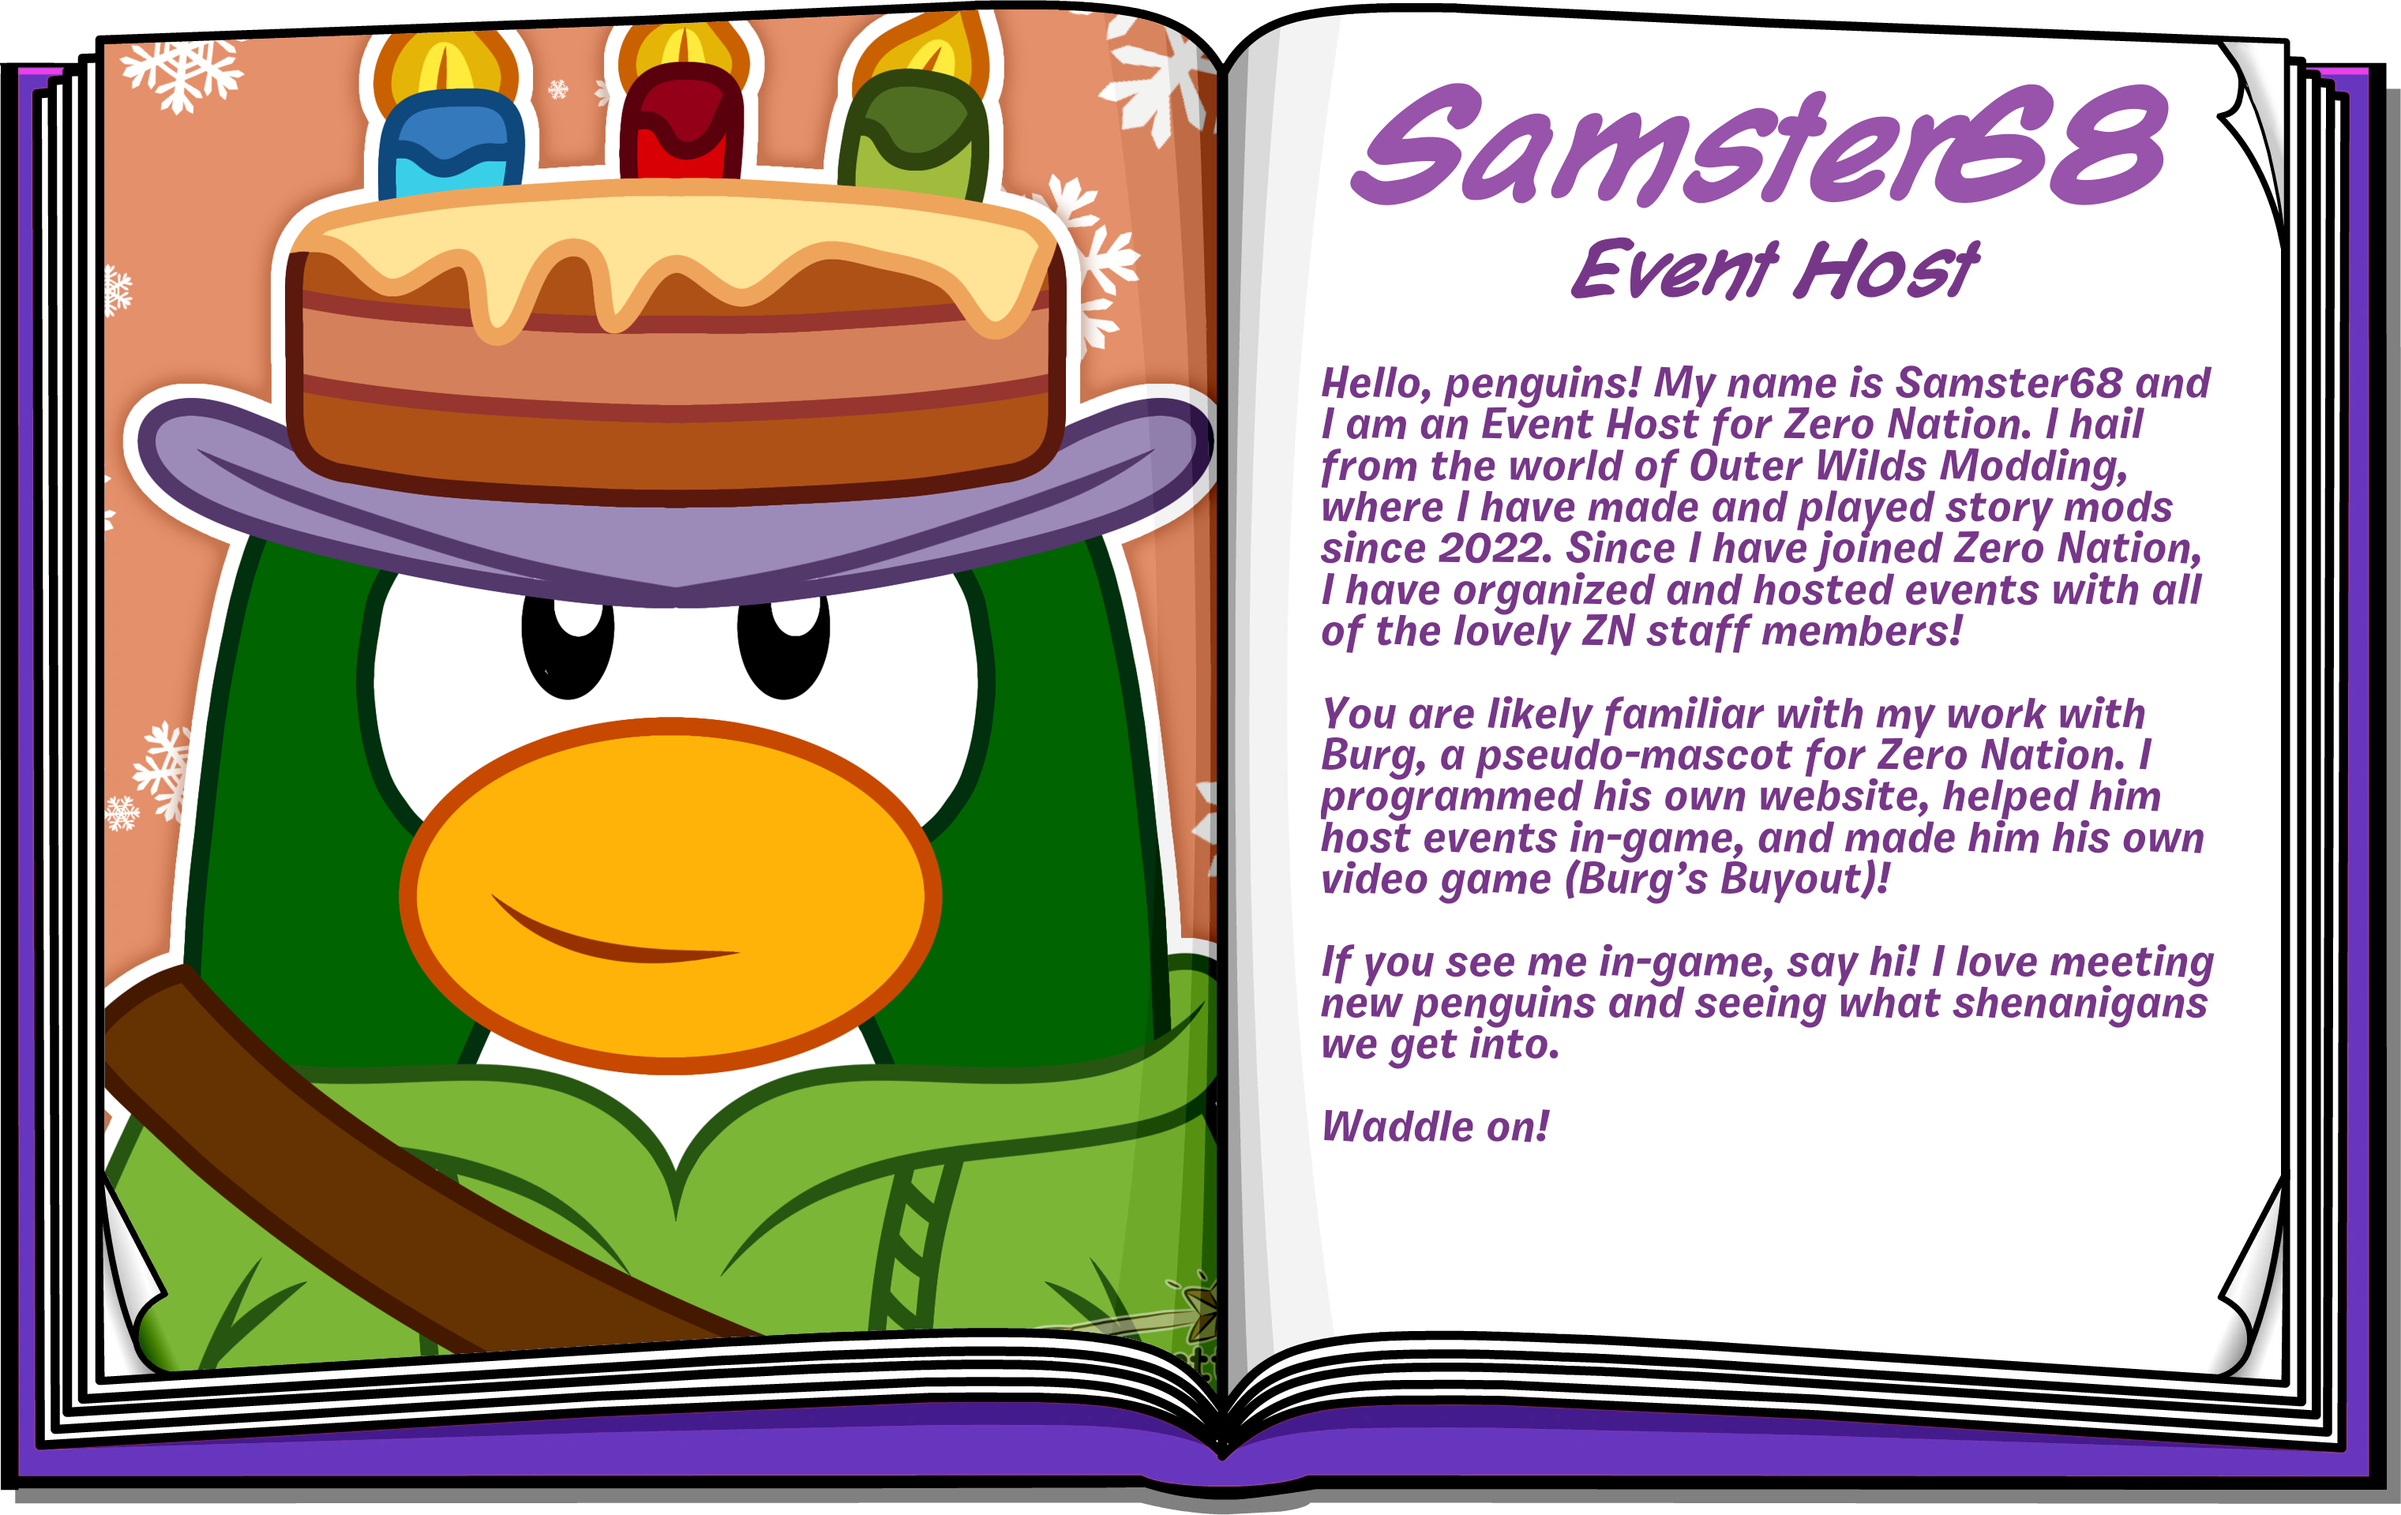
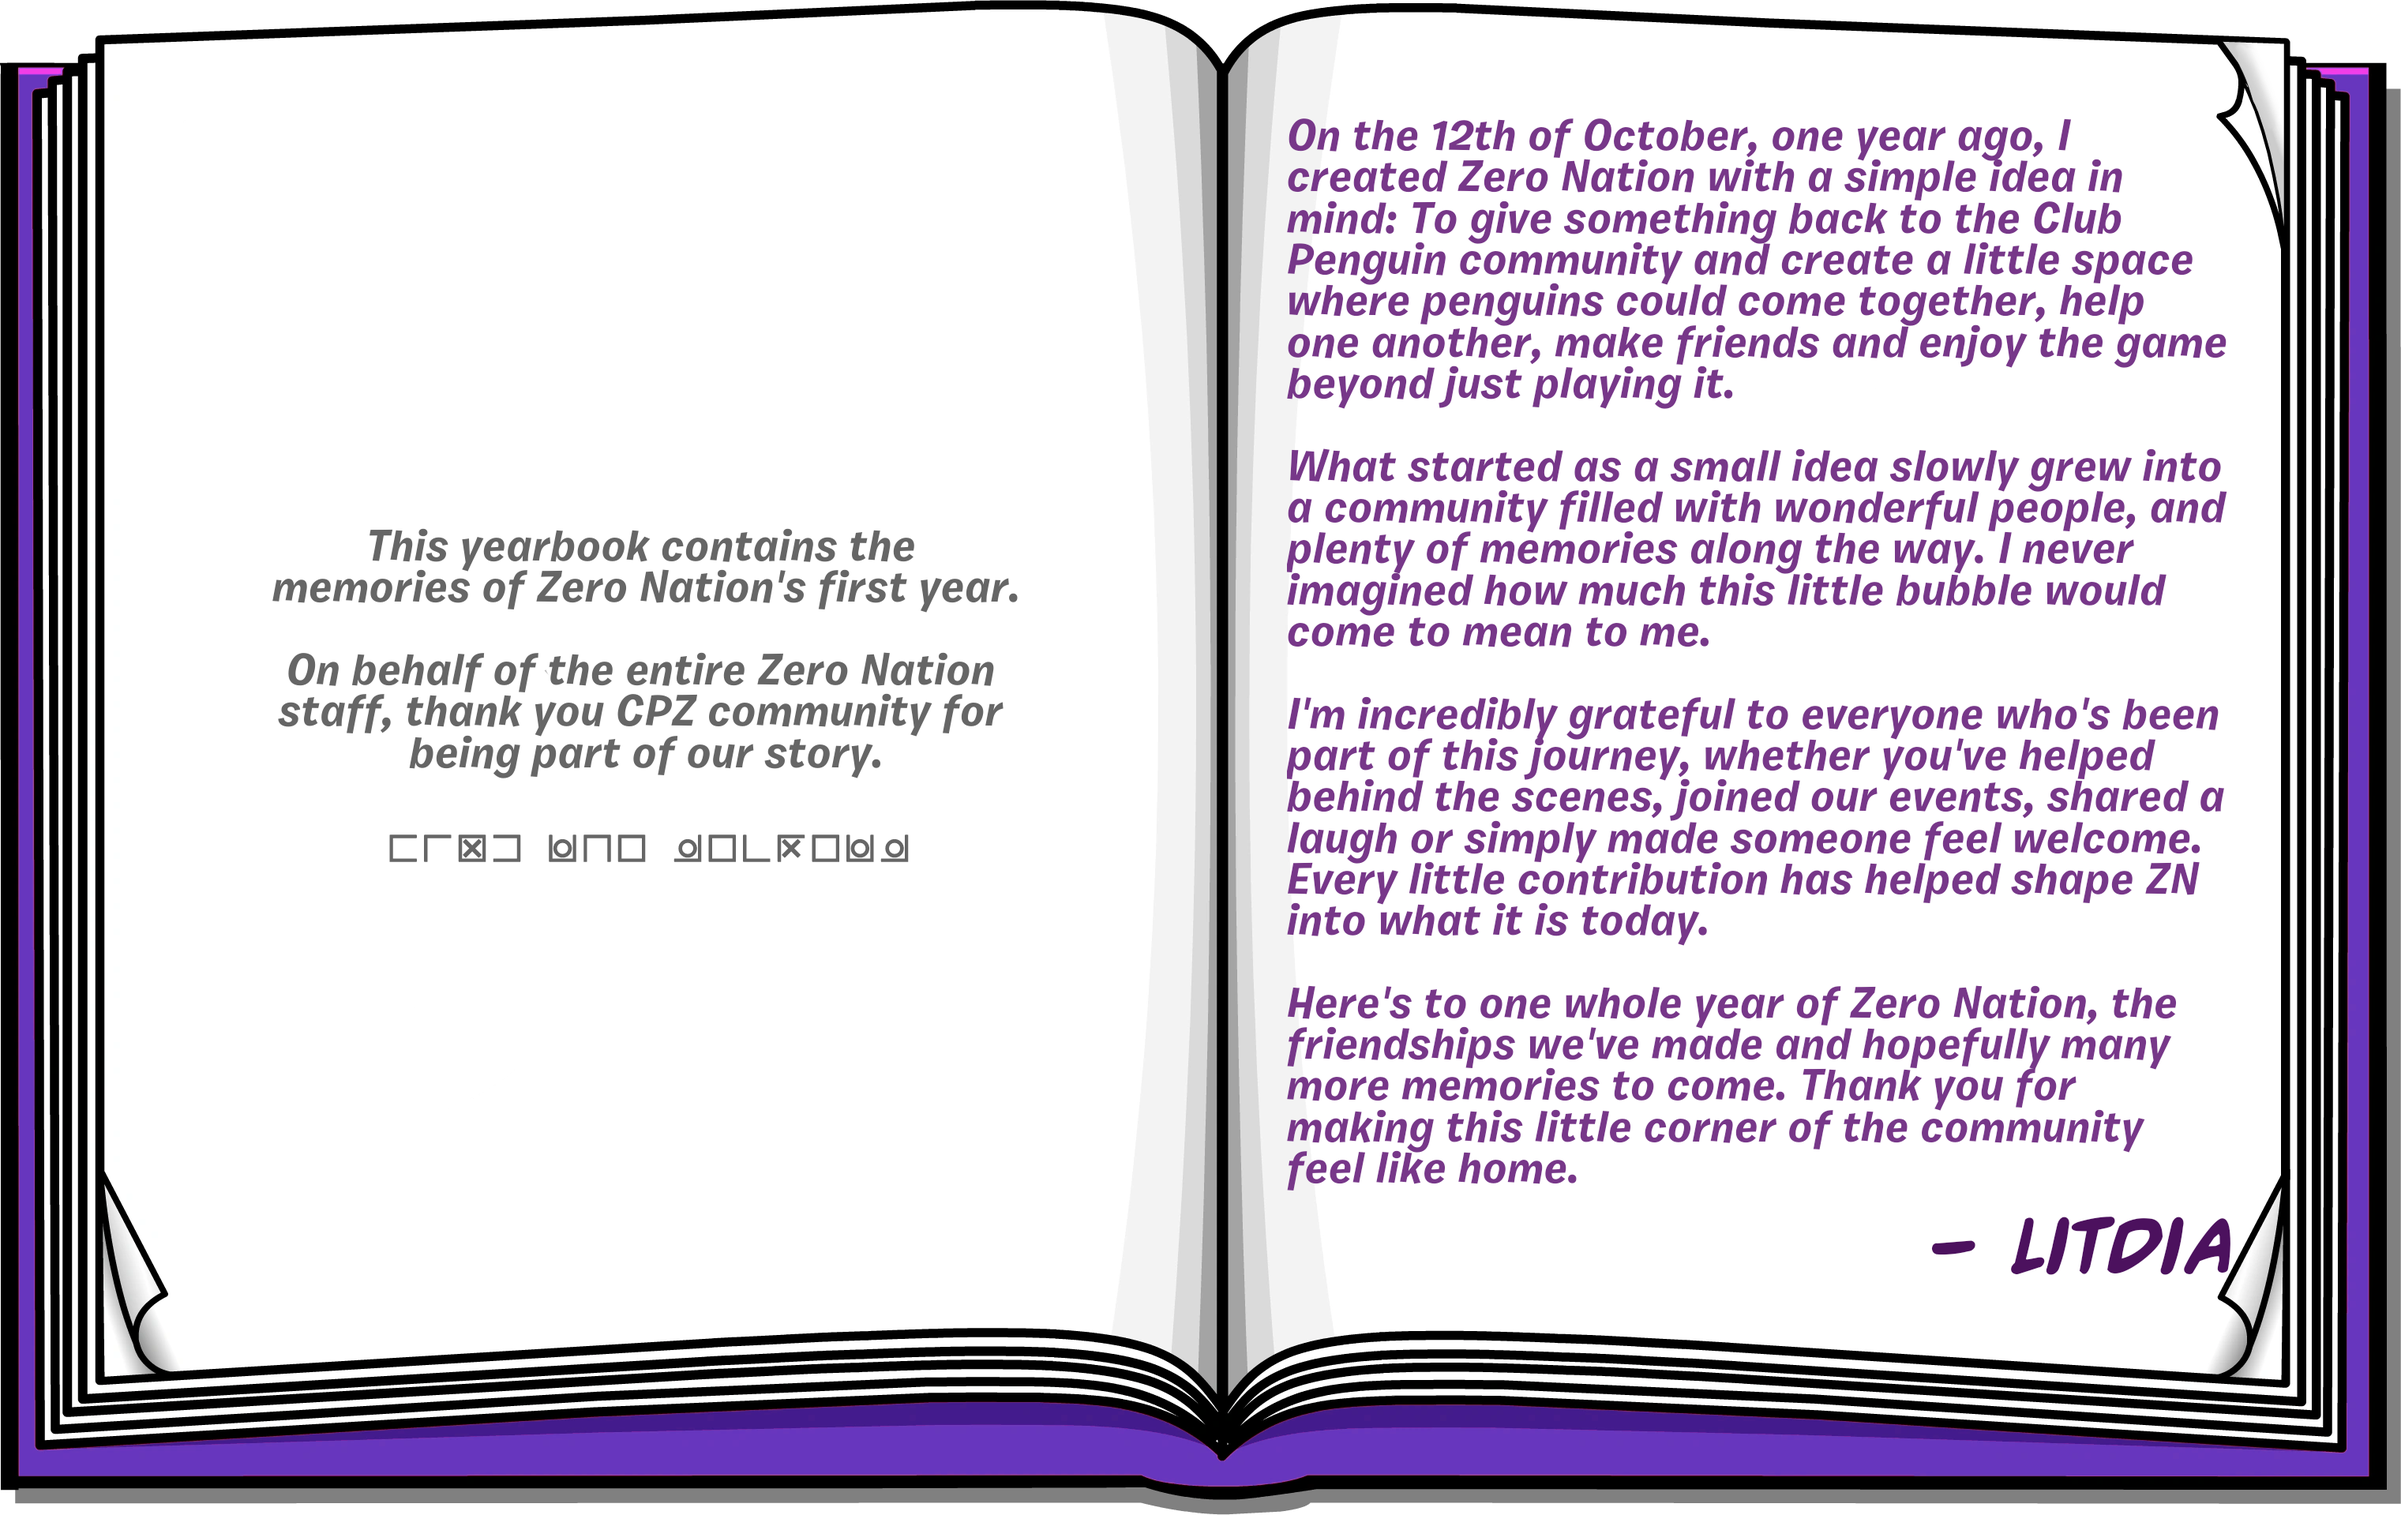
Oct 16th Push
- First build of yearbook complete

diff --git a/projects/year_one_yearbook/index.html b/projects/year_one_yearbook/index.html
@@ -17,11 +17,13 @@
 
     <div id="main-heading">Zero Nation 2026 Yearbook</div>
     <div id="game-frame">
-      <div id="page-display">
-        <div id='turn-left' class="turn-page-button" onclick="turnLeft();"></div>
-        <div id='turn-right' class="turn-page-button" onclick="turnRight();"></div>
-      </div>
+      <div id="page-display"></div>
+      <div id='turn-left' class="turn-page-button" onclick="turnLeft();" hidden></div>
+      <div id='turn-right' class="turn-page-button" onclick="turnRight();" hidden></div>
+      <div id='open-right' class="turn-page-button" onclick="turnRight();" hidden></div>
+      <div id='hover-secret' class="turn-page-button" onmouseenter="revealSecret();" onmouseleave="hideSecret();" hidden></div>
     </div>
+    Click on the page corners to flip through the book.
 
 
 
@@ -34,29 +36,67 @@
 
 
 $(document).ready(function(){
+  initialLoad();
   displayPage();
 });
 
 
 
-const totalPages = 2;
+const totalPages = 21;
+const lastPageWithSecret = 17;
+
+
+
+function initialLoad() {
+  let display = ``;
+  for (let i=0; i<totalPages; i++) {
+    display += `<img id='page_${i}_img' src='images/pages/page_${i}.png' style='display:none;'>`;
+    if (i >= 2 && i <= lastPageWithSecret) display += `<img id='page_${i}s_img' src='images/pages/page_${i}s.png' style='display:none;'>`;
+  }
+  $('#page-display').html(display);
+};
 
 
 
 let yearbookPage = 0;
 function displayPage() {
-    $('#page-display').css('background-image',`url("images/pages/page_${yearbookPage}.png")`);
+  $(`#page_${yearbookPage}_img`).fadeIn(0);
+  // Default buttons
+    $('#turn-left').fadeIn(0);
+    $('#turn-right').fadeIn(0);
+    $('#open-right').fadeOut(0);
+    $('#hover-secret').fadeOut(0);
+  // Adjust buttons
+    if (yearbookPage === 0) {
+      $('#turn-left').fadeOut(0);
+      $('#turn-right').fadeOut(0);
+      $('#open-right').fadeIn(0);
+    }
+    if (yearbookPage === totalPages-1) $('#turn-right').fadeOut(0);
+    if (yearbookPage >= 2 && yearbookPage <= lastPageWithSecret) $('#hover-secret').fadeIn(0);
 };
-
 function turnLeft() {
-    yearbookPage--;
-    if (yearbookPage < 0) yearbookPage = 0;
-    displayPage();
+  $(`#page_${yearbookPage}_img`).fadeOut(0);
+  yearbookPage--;
+  if (yearbookPage < 0) yearbookPage = 0;
+  displayPage();
 };
 function turnRight() {
-    yearbookPage++;
-    if (yearbookPage >= totalPages) yearbookPage = totalPages - 1;
-    displayPage();
+  $(`#page_${yearbookPage}_img`).fadeOut(0);
+  yearbookPage++;
+  if (yearbookPage >= totalPages) yearbookPage = totalPages - 1;
+  displayPage();
+};
+
+
+
+function revealSecret() {
+  $(`#page_${yearbookPage}_img`).fadeOut(0);
+  $(`#page_${yearbookPage}s_img`).fadeIn(0);
+};
+function hideSecret() {
+  $(`#page_${yearbookPage}_img`).fadeIn(0);
+  $(`#page_${yearbookPage}s_img`).fadeOut(0);
 };
 
 

diff --git a/index.html b/index.html
@@ -229,6 +229,8 @@
             <p class="lead p-savior">September 28th - Vesper posts a ridiculous score in Burg's Buyout.</p>
             <img src="images/backstory/vesper_score.png" class="img-responsive img-savior" style="width:600px;" title="Vesper spending too much time in Burg's Buyout"><br><br>
             <p class="lead p-savior">October 3rd - Burg got abducted by aliens. This probably led to a lot of character development.</p>
+            <p class="lead p-savior">October 12th - Burg is reported missing!</p>
+            <img src="images/backstory/ZN_Post_Oct12.png" class="img-responsive img-savior" style="width:600px;" title="Zero Nation Post (Oct 12th, 2026) by samuel"><br><br>
 
           </div>
         </div>
@@ -240,6 +242,15 @@
 
 
           <div class="row">
+            <div class="col-sm-6 col-md-4">
+              <div class="thumbnail">
+                <img src="images/fun-stuff/unreleased.png" alt="Yearbook Thumbnail">
+                <div class="caption">
+                  <h3>Coming Soon!</h3>
+                  <p>Not released yet.</p>
+                </div>
+              </div>
+            </div>
             <div class="col-sm-6 col-md-4">
               <div class="thumbnail">
                 <img src="images/fun-stuff/shovel-in.png" alt="Snow Shoveling Thumbnail">
@@ -260,6 +271,9 @@
                 </div>
               </div>
             </div>
+          </div>
+          
+          <div class="row">
             <div class="col-sm-6 col-md-4">
               <div class="thumbnail">
                 <img src="images/backstory/burgs_buyout_3.png" alt="Burg's Buyout Thumbnail">
@@ -270,9 +284,6 @@
                 </div>
               </div>
             </div>
-          </div>
-          
-          <div class="row">
             <div class="col-sm-6 col-md-4">
               <div class="thumbnail">
                 <img src="images/fun-stuff/coloring-set-img.png" alt="Coloring Set Thumbnail">

diff --git a/projects/year_one_yearbook/stylesheets/main.css b/projects/year_one_yearbook/stylesheets/main.css
@@ -34,18 +34,40 @@ body {
     width: 900px;
     z-index: 2;
 }
+#page-display img {
+    height: 600px;
+    width: 900px;
+}
 
 
 
 .turn-page-button {
-    bottom: 20px;
     cursor: url('../images/cursor/pointer.png'), auto;
-    height: 130px;
     opacity: 0.5;
     position: absolute;
-    width: 100px;
     z-index: 3;
 }
+#turn-left {
+    bottom: 80px;
+    height: 120px;
+    left: 50px;
+    width: 100px;
+}
 #turn-right {
-    right: 0px;
+    bottom: 80px;
+    height: 120px;
+    right: 50px;
+    width: 100px;
+}
+#open-right {
+    bottom: 60px;
+    height: 570px;
+    right: 270px;
+    width: 100px;
+}
+#hover-secret {
+    height: 70px;
+    top: 70px;
+    right: 120px;
+    width: 330px;
 }
